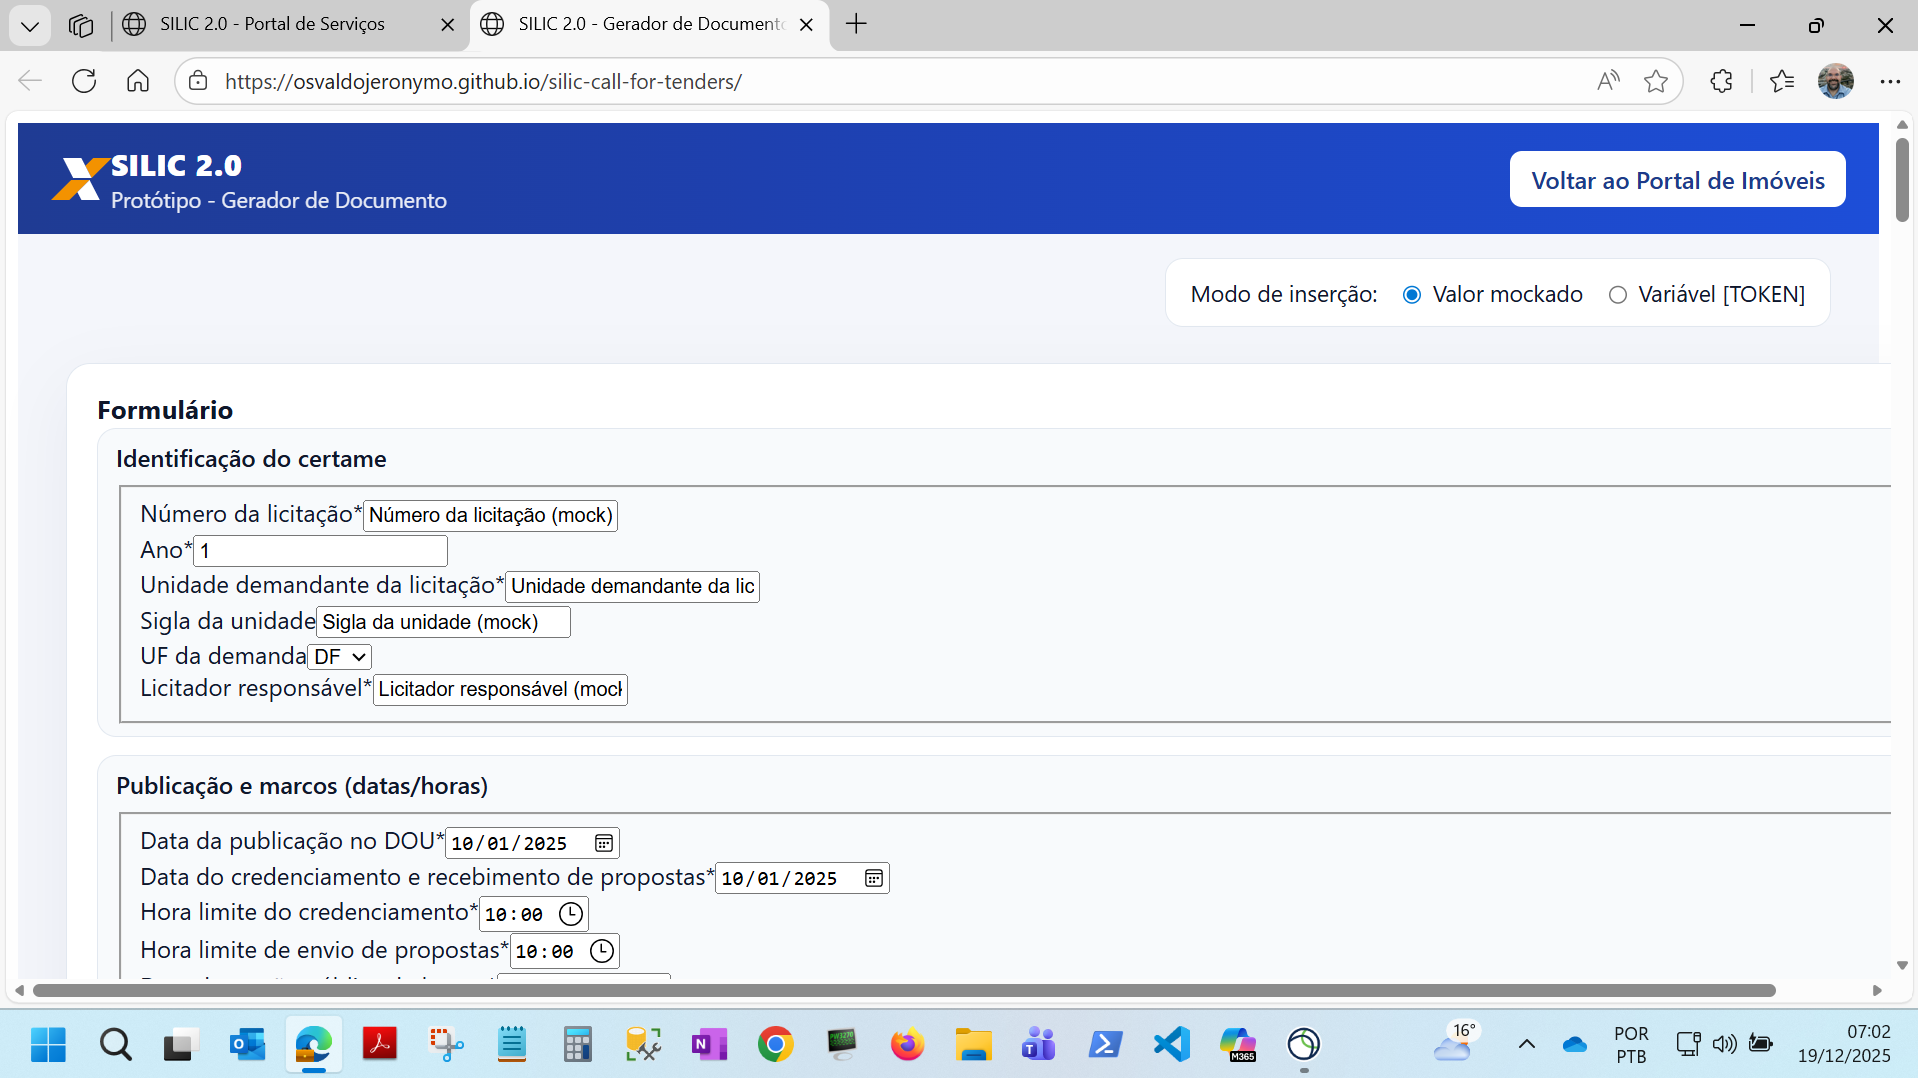
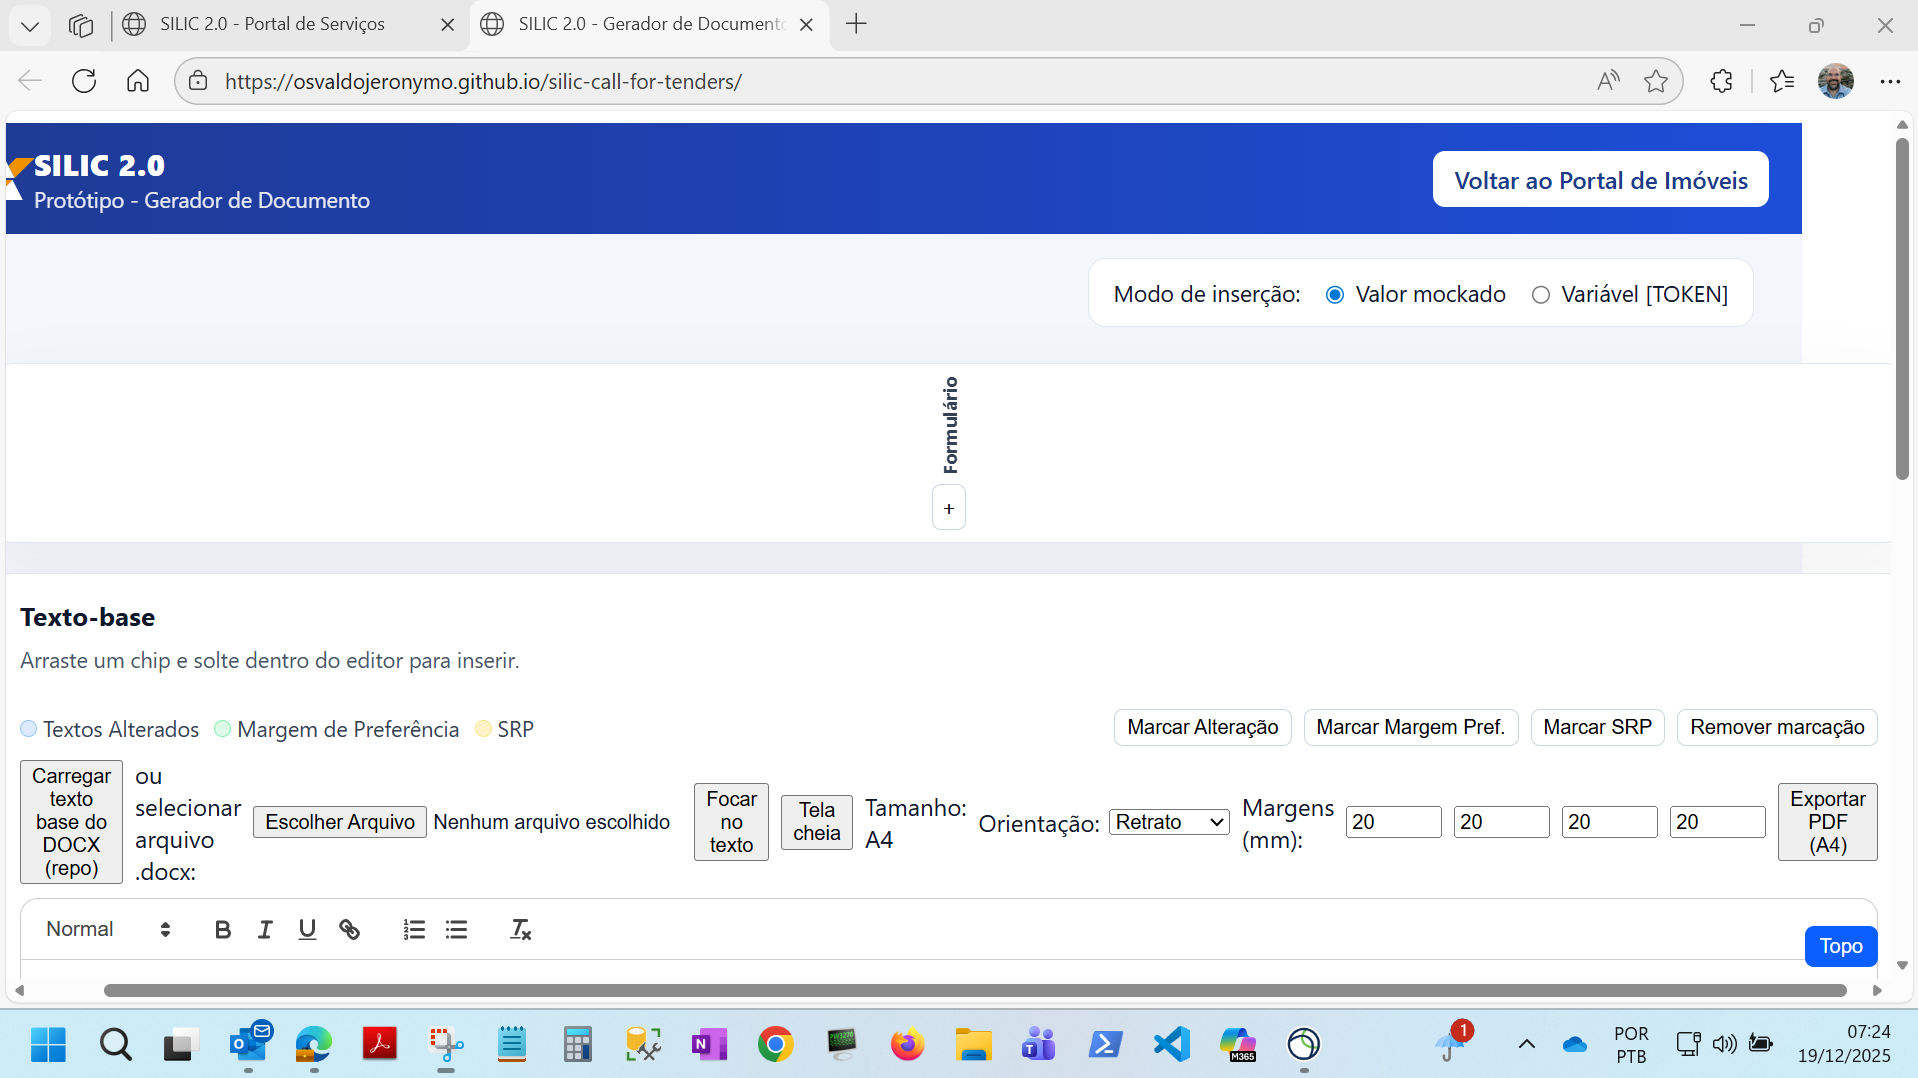
feat(ux): evitar scrollbar horizontal (min-width:0, overflow-x:hidden, wrap no editor) e tornar a barra de legenda/controles sticky

diff --git a/src/form-renderer/form-renderer.css b/src/form-renderer/form-renderer.css
@@ -81,6 +81,7 @@
   display: grid;
   grid-template-columns: var(--col-a, 1.2fr) 1fr var(--col-c, 0.9fr);
   gap: 1.25rem;
+  overflow-x: hidden;
 }
 
 .renderer-columns.collapsed-a { --col-a: 56px; }
@@ -102,6 +103,7 @@
   box-shadow: 0 15px 45px rgba(15, 23, 42, 0.05);
   display: flex;
   flex-direction: column;
+  min-width: 0; /* evita overflow lateral em grid/flex */
 }
 
 .column h2 {
@@ -189,6 +191,16 @@
   font-size: 0.9rem;
 }
 
+/* Barra de legenda/controles acima do editor como sticky */
+.editor-legend {
+  position: sticky;
+  top: 0;
+  z-index: 3;
+  background: #fff;
+  padding: 6px 8px;
+  border-bottom: 1px solid #e2e8f0;
+}
+
 .column-editor .ql-container {
   min-height: 420px;
   max-height: var(--editor-max-h, 60vh);
@@ -196,6 +208,7 @@
   border-radius: 0 0 0.75rem 0.75rem;
 }
 .column-editor .ql-editor { min-height: 100%; }
+.column-editor .ql-editor { overflow-wrap: anywhere; word-break: break-word; }
 
 /* Toolbar "sticky" para manter seletor/controles visíveis durante rolagem do editor */
 .column-editor .ql-toolbar.ql-snow {
